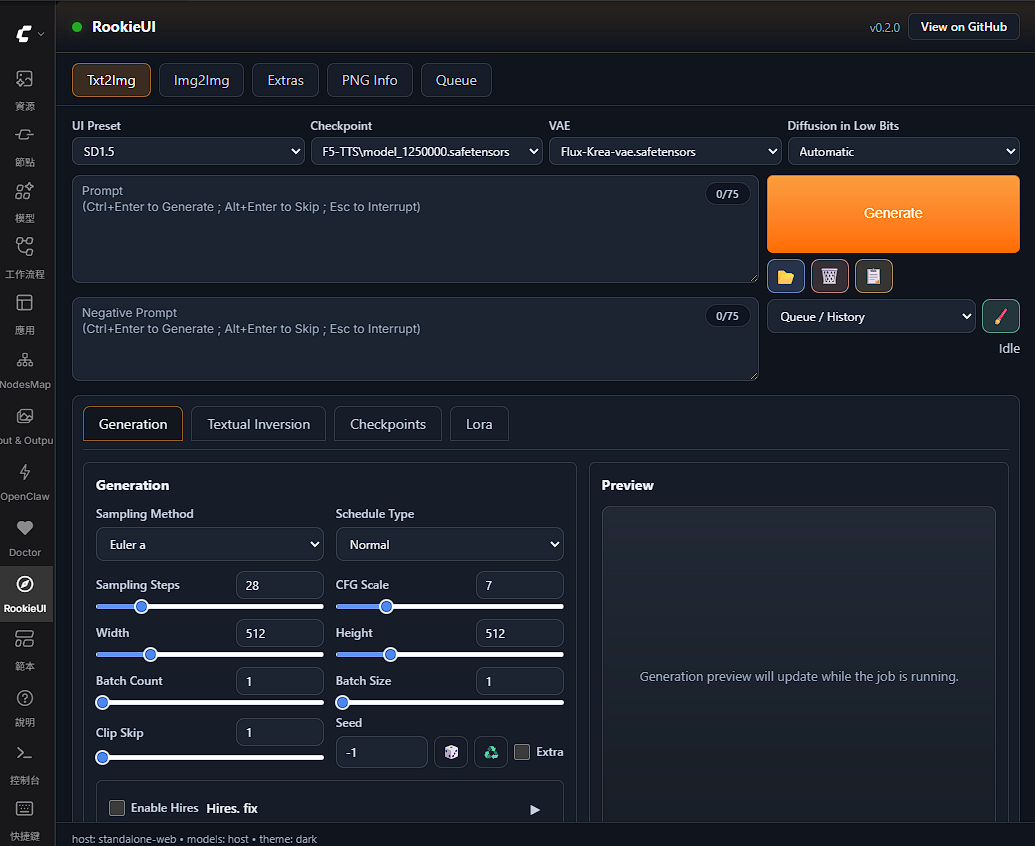
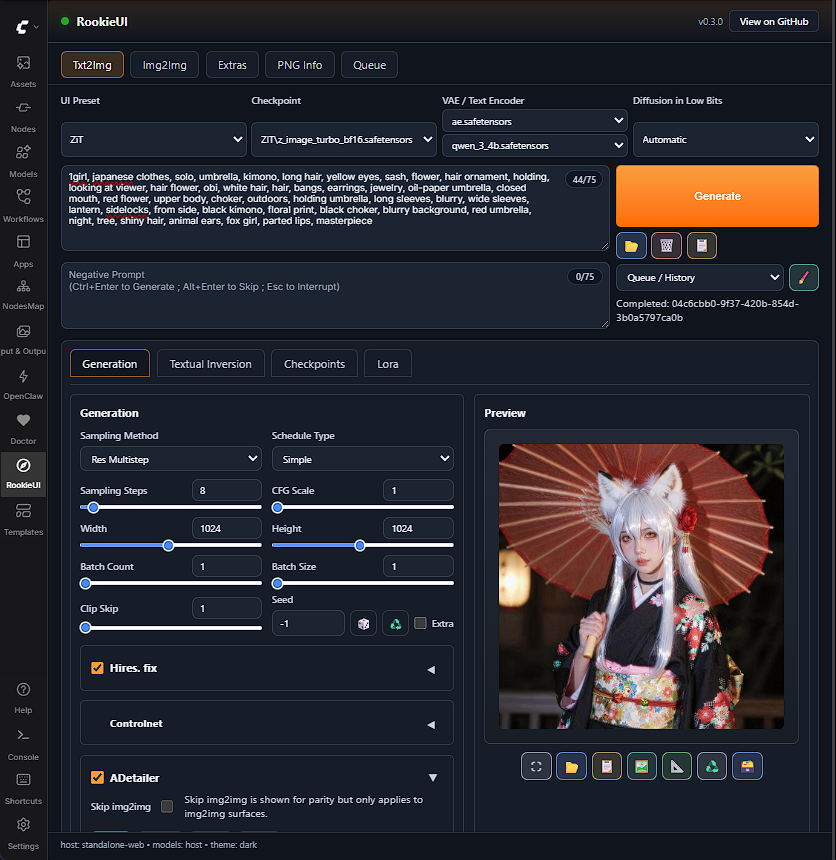
test(frontend): harden fullscreen and revision coverage

Changed region(s): [[0.0, 0.0, 1.0, 1.0], [0.7153, 0.4303, 0.7464, 0.461]]

diff --git a/tests/e2e/specs/bootstrap.spec.js b/tests/e2e/specs/bootstrap.spec.js
@@ -2,6 +2,23 @@ const { test, expect } = require("@playwright/test");
 
 test("loads the RookieUI bootstrap harness", async ({ page }) => {
   await page.goto("test-harness.html");
+  await page.evaluate(() => {
+    let fullscreenElement = null;
+    Object.defineProperty(document, "fullscreenElement", {
+      configurable: true,
+      get() {
+        return fullscreenElement;
+      },
+    });
+    HTMLElement.prototype.requestFullscreen = async function requestFullscreenShim() {
+      fullscreenElement = this;
+      document.dispatchEvent(new Event("fullscreenchange"));
+    };
+    document.exitFullscreen = async function exitFullscreenShim() {
+      fullscreenElement = null;
+      document.dispatchEvent(new Event("fullscreenchange"));
+    };
+  });
   await expect(page.locator("#rookieui-title")).toHaveText("RookieUI Bootstrap Harness");
   await expect(page.locator("#rookieui-root")).toContainText('"hostSurface":"standalone-web"');
   await expect(page.locator("#rookieui-root")).toContainText('"hostSurfaceSupported":true');
@@ -71,6 +88,39 @@ test("loads the RookieUI bootstrap harness", async ({ page }) => {
   await expect(
     page.locator("#rookieui-pane-txt2img .rookieui-shell__preview-overlay-toolbar #rookieui-txt2img-preview-fullscreen"),
   ).toBeVisible();
+  await page.evaluate(() => {
+    const previewBox = document.getElementById("rookieui-txt2img-preview");
+    previewBox.innerHTML = "";
+    const image = document.createElement("img");
+    image.className = "rookieui-shell__preview-image";
+    image.src =
[1 lines of base64/hex data omitted]
+    previewBox.appendChild(image);
+    previewBox.__previewFullscreenController?.syncImage?.();
+  });
+  await page.locator("#rookieui-txt2img-preview").click();
+  await expect
+    .poll(async () =>
+      page.evaluate(() =>
+        document.fullscreenElement?.classList?.contains("rookieui-shell__preview-surface") ?? false,
+      ),
+    )
+    .toBe(true);
+  await expect(page.locator("#rookieui-txt2img-status")).toContainText("entered fullscreen mode");
+  await page.locator("#rookieui-txt2img-preview").click();
+  await expect
+    .poll(async () => page.evaluate(() => document.fullscreenElement === null))
+    .toBe(true);
+  await expect(page.locator("#rookieui-txt2img-status")).toContainText("exited fullscreen mode");
+  await page.evaluate(() => {
+    const previewBox = document.getElementById("rookieui-txt2img-preview");
+    previewBox.innerHTML = "";
+    const placeholder = document.createElement("span");
+    placeholder.className = "rookieui-shell__preview-placeholder";
+    placeholder.textContent = "Generation preview will update while the job is running.";
+    previewBox.appendChild(placeholder);
+    previewBox.__previewFullscreenController?.syncImage?.();
+  });
   await expect(page.locator("#rookieui-steps-slider")).toHaveCSS("accent-color", "rgb(78, 134, 235)");
   const sliderBackground = await page.locator("#rookieui-steps-slider").evaluate((node) => {
     return getComputedStyle(node).backgroundImage;
@@ -395,6 +445,22 @@ test("loads the RookieUI bootstrap harness", async ({ page }) => {
   await expect(page.locator("#rookieui-img2img-source-brush-softness")).toHaveValue("0");
   await expect(page.locator("#rookieui-img2img-source-undo")).toBeDisabled();
   await expect(page.locator("#rookieui-img2img-source-redo")).toBeDisabled();
+  await page.locator("#rookieui-img2img-image-dropzone").hover();
+  await page.locator("#rookieui-img2img-source-fullscreen").click();
+  await expect
+    .poll(async () =>
+      page.evaluate(() =>
+        document.fullscreenElement?.classList?.contains("rookieui-shell__canvas-upload-surface") ?? false,
+      ),
+    )
+    .toBe(true);
+  await expect(page.locator("#rookieui-img2img-status")).toContainText("entered fullscreen mode");
+  await page.locator("#rookieui-img2img-image-dropzone").hover();
+  await page.locator("#rookieui-img2img-source-fullscreen").click();
+  await expect
+    .poll(async () => page.evaluate(() => document.fullscreenElement === null))
+    .toBe(true);
+  await expect(page.locator("#rookieui-img2img-status")).toContainText("exited fullscreen mode");
   await page.locator("#rookieui-img2img-image-dropzone").hover();
   await page.locator("#rookieui-img2img-source-remove").click();
   await expect(page.locator("#rookieui-img2img-source-canvas-stage")).toHaveAttribute("data-interaction-mode", "upload");

diff --git a/web/tests/rookieui_frontend_architecture.test.js b/web/tests/rookieui_frontend_architecture.test.js
@@ -1,8 +1,11 @@
 import fs from "node:fs";
 import path from "node:path";
+import crypto from "node:crypto";
 import { fileURLToPath } from "node:url";
 
 import { describe, expect, test } from "vitest";
+
+import { ROOKIEUI_ASSET_REVISION } from "../rookieui_asset_revision.js";
 
 const repoRoot = path.resolve(path.dirname(fileURLToPath(import.meta.url)), "..", "..");
 
@@ -12,6 +15,44 @@ function readFile(relativePath) {
 
 function countLines(relativePath) {
   return readFile(relativePath).split(/\r?\n/).length;
+}
+
+function listShippedFrontendFiles(rootDir) {
+  const collected = [];
+  const walk = (currentDir) => {
+    for (const entry of fs.readdirSync(currentDir, { withFileTypes: true })) {
+      const absolutePath = path.join(currentDir, entry.name);
+      const relativePath = path.relative(repoRoot, absolutePath).replace(/\\/g, "/");
+      if (entry.isDirectory()) {
+        if (relativePath === "web/tests") {
+          continue;
+        }
+        walk(absolutePath);
+        continue;
+      }
+      if (!/\.(js|css)$/i.test(entry.name)) {
+        continue;
+      }
+      if (relativePath === "web/rookieui_asset_revision.js") {
+        continue;
+      }
+      collected.push(relativePath);
+    }
+  };
+  walk(rootDir);
+  return collected.sort();
+}
+
+function computeShippedFrontendFingerprint() {
+  const webRoot = path.join(repoRoot, "web");
+  const hash = crypto.createHash("sha1");
+  for (const relativePath of listShippedFrontendFiles(webRoot)) {
+    hash.update(relativePath);
+    hash.update("\0");
+    hash.update(readFile(relativePath));
+    hash.update("\0");
+  }
+  return hash.digest("hex").slice(0, 10);
 }
 
 describe("frontend architecture guardrails", () => {
@@ -32,5 +73,11 @@ describe("frontend architecture guardrails", () => {
   test("keeps sidebar shell within the modularization size budget", () => {
     // IMPORTANT: this budget is the regression tripwire for R67; if the shell grows past it, extract another service seam instead of accreting helpers back into the monolith.
     expect(countLines("web/rookieui_sidebar_shell.js")).toBeLessThanOrEqual(1700);
+  });
+
+  test("pins asset revision token to the shipped frontend fingerprint", () => {
+    // IMPORTANT: this is the cache-busting tripwire; if shipped frontend modules change without a new revision suffix, live hosts can silently keep serving stale code.
+    const expectedFingerprint = computeShippedFrontendFingerprint();
+    expect(ROOKIEUI_ASSET_REVISION).toMatch(new RegExp(`-h${expectedFingerprint}$`));
   });
 });

diff --git a/web/rookieui_asset_revision.js b/web/rookieui_asset_revision.js
@@ -1,5 +1,5 @@
 // IMPORTANT: bump this token whenever shipped frontend module wiring changes; otherwise Comfy-host browser caches can mask live UI fixes.
-export const ROOKIEUI_ASSET_REVISION = "20260415-preview-fullscreen-hotfix";
+export const ROOKIEUI_ASSET_REVISION = "20260415-preview-fullscreen-hotfix-hbd8d9f1e94"; // pragma: allowlist secret
 
 export function buildRevisionedModuleUrl(specifier, metaUrl = import.meta.url) {
   const moduleUrl = new URL(specifier, metaUrl);

diff --git a/README.md b/README.md
@@ -24,6 +24,28 @@ The core objective of this project is not merely to replicate the classic UI/UX,
 
 <details>
 
+<summary><strong>Native ADetailer and advanced ControlNet runtime upgrade (new functionality)</strong></summary>
+
+- Upgraded ADetailer to a RookieUI-owned detector/runtime path with packaged Ultralytics/OpenCV-backed dependency support instead of relying on an external A1111 script or third-party node pack.
+- Added native advanced ControlNet execution support for stage-aware weights, timestep scheduling, and mask-aware application in the shared RookieUI workflow translator.
+- Kept main-generation ControlNet and ADetailer-local ControlNet on the same native apply seam so advanced behavior stays consistent across base and refinement stages.
+- Improved runtime availability metadata so the UI can report the real detector/advanced-ControlNet capability surface instead of implying unsupported host features.
+
+</details>
+
+<details>
+
+<summary><strong>Preview fullscreen viewer and frontend regression hardening (new functionality/stability)</strong></summary>
+
+- Added a preview-only fullscreen viewer for generated images in `txt2img` and `img2img`, with direct surface activation and zoom-only inspection.
+- Improved preview discoverability with visible overlay controls and consistent fullscreen enter/exit feedback.
+- Hardened frontend regression coverage so fullscreen behavior is validated through real user actions instead of DOM-existence checks only.
+- Added a shipped-frontend asset revision fingerprint guard to reduce stale-browser-cache regressions after UI hotfixes.
+
+</details>
+
+<details>
+
 <summary><strong>ADetailer integrated parity rollout (new functionality)</strong></summary>
 
 - Added an integrated ADetailer editor in `txt2img` and `img2img` with four unit tabs, grouped controls, and A1111-style layout on top of RookieUI's native sidebar shell.
@@ -189,12 +211,14 @@ python -m pip install -r requirements.txt
 
 Then restart ComfyUI. The `RookieUI` sidebar tab will be available in the frontend host.
 
+`ControlNet` and `ADetailer` support are built into RookieUI itself. You do not need to install separate external custom-node packs just to use RookieUI's integrated ControlNet or ADetailer surfaces.
+
 Required extra Python packages for RookieUI:
 
 - `opencv-python-headless>=4.10.0`
 - `ultralytics>=8.3.0`
 
-If your host or Manager install path does not automatically install custom-node dependencies, run `python -m pip install -r requirements.txt` manually in the same Python environment used by ComfyUI.
+If your host or Manager install path does not automatically install custom-node dependencies, run `python -m pip install -r requirements.txt` manually in the same Python environment used by ComfyUI. These packages power RookieUI's native ADetailer detector/runtime path and related image-processing helpers.
 
 ## Feature Overview
 
@@ -210,6 +234,7 @@ If your host or Manager install path does not automatically install custom-node 
 - Family-aware preset behavior (SD-family first) with Flux/Qwen preset lanes
 - Progress text and queue/history integration in sidebar flow
 - Live preview panel with runtime updates and flicker-mitigated rendering
+- Fullscreen preview viewer for generated results, with direct surface activation and zoom-only inspection
 
 ### Generation
 
@@ -237,6 +262,7 @@ If your host or Manager install path does not automatically install custom-node 
 - integrated multi-unit ADetailer surface in `txt2img` and `img2img`
 - four-unit editor with grouped controls and override gating
 - host-native detect-mask-refine runtime chain
+- RookieUI-native detector/runtime path backed by packaged Python dependencies instead of an external ADetailer node pack
 - ControlNet `none` / `passthrough` / `custom` support inside detailer refinement
 - explicit diagnostics and availability guidance for degraded detector/model states
 
@@ -299,14 +325,21 @@ Behavior and compatibility:
 
 - A1111-style multi-unit ControlNet editor is available in `txt2img` and `img2img`.
 - Backend execution uses native ComfyUI ControlNet nodes with deterministic multi-unit apply order.
+- RookieUI ships its own integrated ControlNet request/runtime layer, so the feature does not depend on installing a separate external ControlNet UI extension.
 - Selected preprocessor variants are dispatched to matching host annotator nodes when available, including exact OpenPose-family variant routing.
+- Advanced native ControlNet behavior is available through RookieUI's shared runtime seam, including staged weighting, timestep scheduling, and mask-aware application where supported by the selected route.
 - Request compatibility supports both RookieUI native units and A1111-style `alwayson_scripts.controlnet` payloads.
 - API surface provides both canonical RookieUI routes and A1111-compatible aliases:
   - `/rookieui/controlnet/*`
   - `/controlnet/*`
-- When a host preprocessor is unavailable, RookieUI returns explicit warning diagnostics and fallback status.
+- ControlNet still requires host-side ControlNet model files; when a requested host preprocessor/runtime capability is unavailable, RookieUI returns explicit warning diagnostics and fallback status.
 
 ## ADetailer Support
+
+<div align="left">
+  <img src="assets/adetailer.png" width="40%" />
+</div>
+<br>
 
 Simple usage:
 
@@ -320,8 +353,10 @@ Behavior and compatibility:
 
 - The ADetailer surface is integrated directly into RookieUI's generation panes instead of relying on an external A1111 script runner.
 - Runtime behavior follows a detect-mask-refine pipeline built from native ComfyUI/RookieUI workflow nodes.
+- Detector/runtime support is packaged with RookieUI's own dependency/runtime layer; no separate external ADetailer custom-node pack is required.
 - Up to four ADetailer units are supported in the integrated editor.
 - ControlNet coupling supports `none`, `passthrough`, and `custom` modes inside the refinement context.
+- Native detector runtime uses RookieUI's packaged Python dependencies together with host model inventory, so matching detector/model files must still exist in the host environment.
 - Availability guidance and warning diagnostics are exposed when detector/model/runtime dependencies are degraded.
 
 ## Support for Other Extensions
